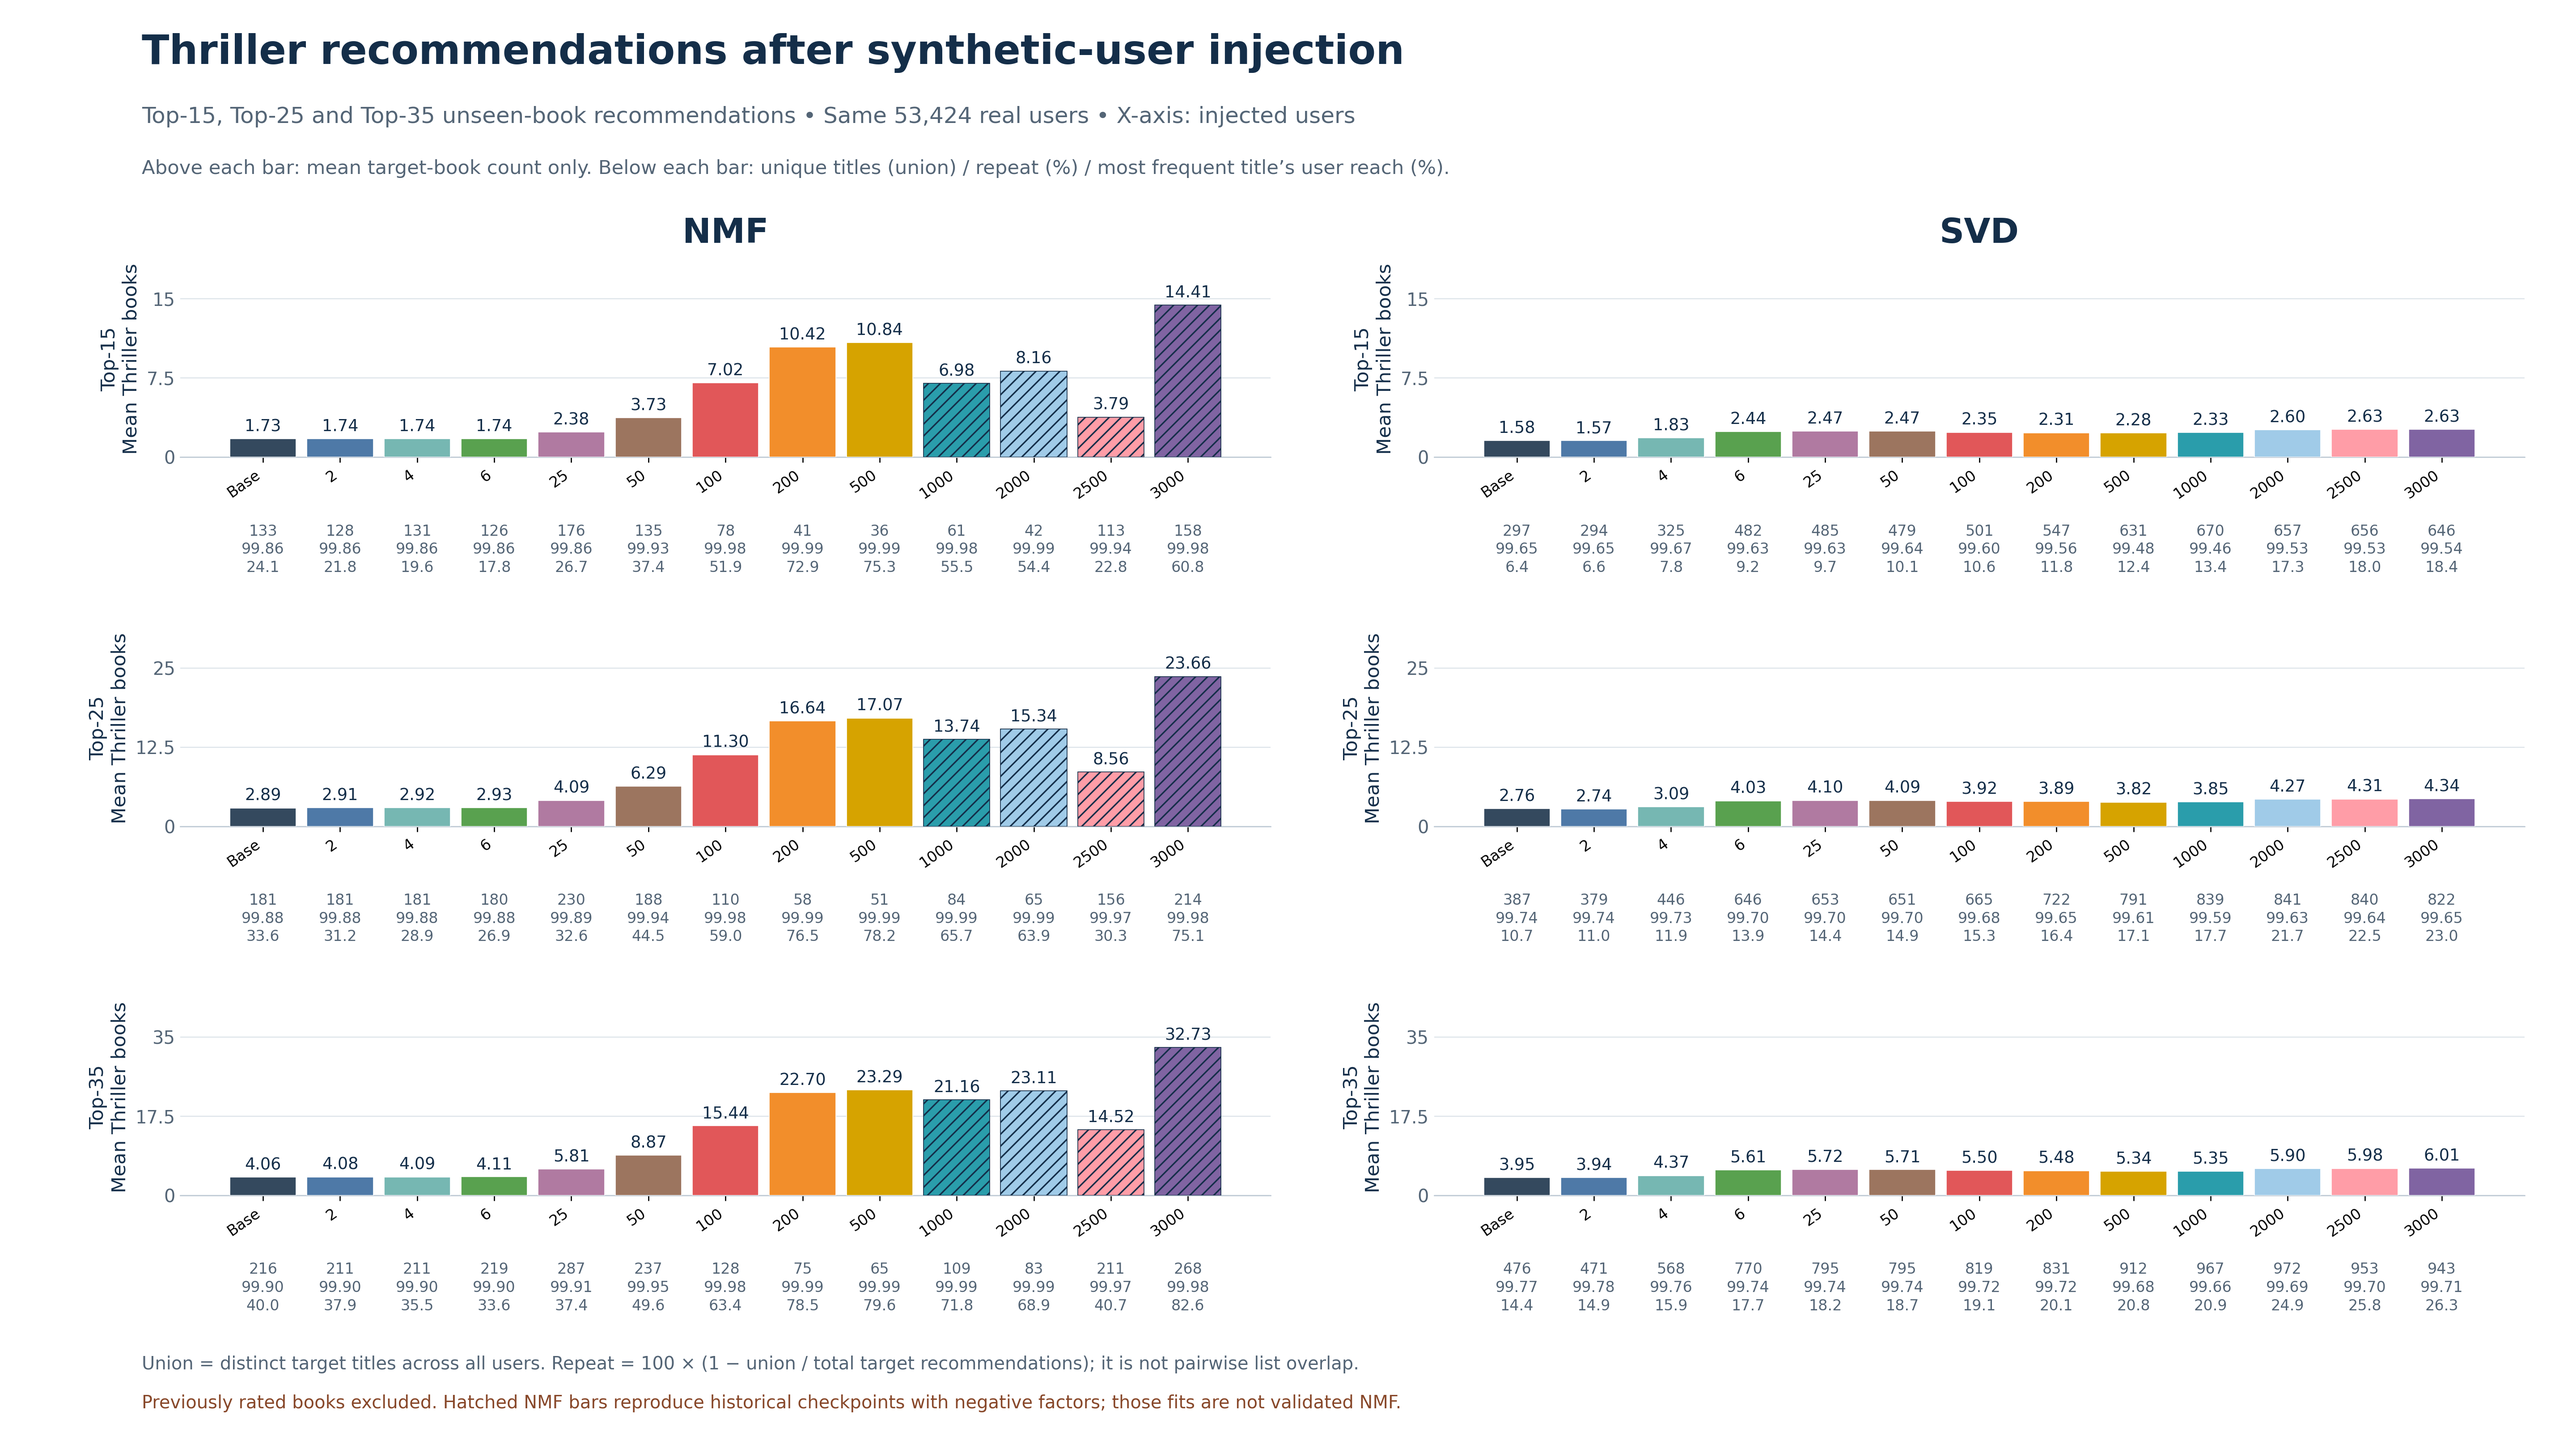
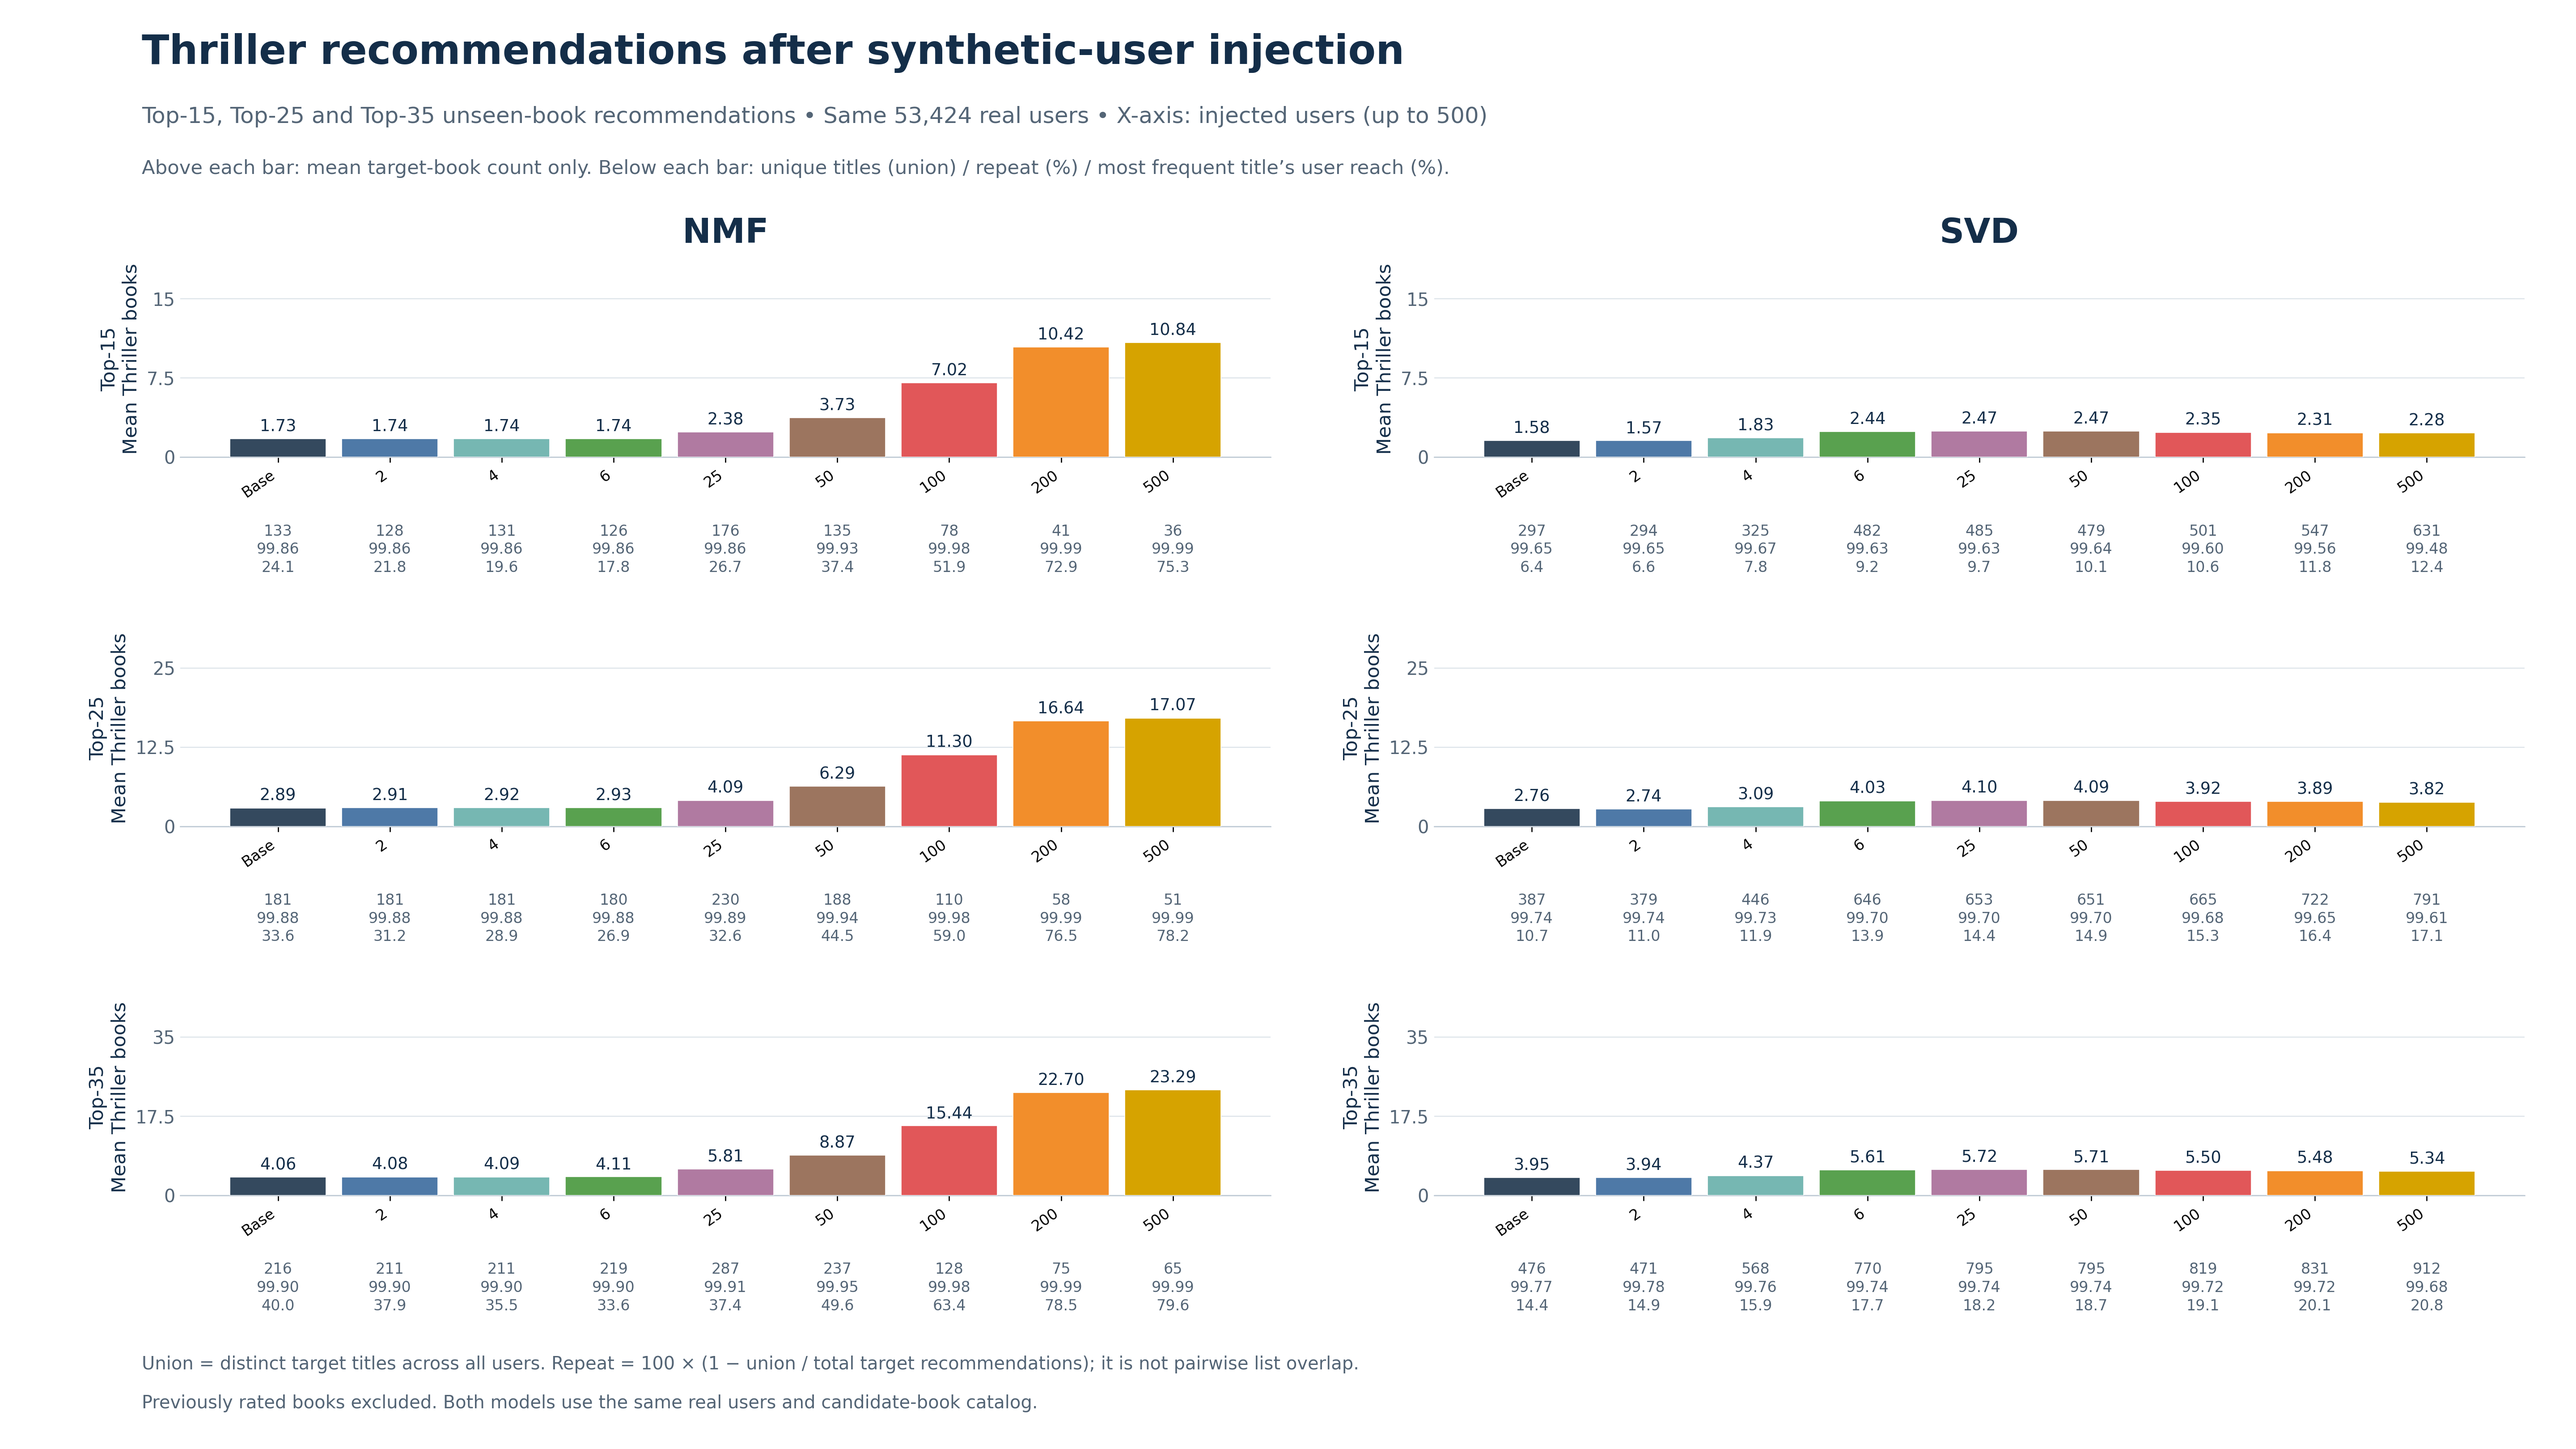
Limit both three-length genre comparisons to 500 injected users

diff --git a/Book/current/PerturbRec/svd_nmf/layer1/notebook/plot_topk_target_union.py b/Book/current/PerturbRec/svd_nmf/layer1/notebook/plot_topk_target_union.py
@@ -7,7 +7,8 @@ matplotlib.use('Agg')
 import matplotlib.pyplot as plt
 L=Path('/home/moshtasa/Research/phd-recsys/Book/current/PerturbRec/svd_nmf/layer1')
 d=pd.read_csv(L/'tables/topk_target_union/summary.csv');assert len(d)==156
-COUNTS=[0,2,4,6,25,50,100,200,500,1000,2000,2500,3000];KS=[15,25,35]
+d=d[d.n_fake<=500].copy();assert len(d)==108
+COUNTS=[0,2,4,6,25,50,100,200,500];KS=[15,25,35]
 navy='#142E49';muted='#546576';colors=['#34495E','#4E79A7','#76B7B2','#59A14F','#B07AA1','#9C755F','#E15759','#F28E2B','#D6A300','#2A9DAB','#A0CBE8','#FF9DA7','#8064A2']
 plt.rcParams.update({'font.family':'DejaVu Sans','font.size':12,'axes.spines.top':False,'axes.spines.right':False})
 for genre in ['Thriller','Drama']:
@@ -15,22 +16,22 @@ for genre in ['Thriller','Drama']:
  for ri,k in enumerate(KS):
   for ci,model in enumerate(['nmf','svd']):
    ax=axs[ri,ci];z=d[(d.model==model)&(d.genre==genre)&(d.k==k)].sort_values('n_fake');assert z.n_fake.tolist()==COUNTS
-   bars=ax.bar(np.arange(13),z.mean_target_count,width=.86,color=colors,edgecolor='white',linewidth=.5,zorder=3)
+   bars=ax.bar(np.arange(len(COUNTS)),z.mean_target_count,width=.86,color=colors[:len(COUNTS)],edgecolor='white',linewidth=.5,zorder=3)
    for j,(b,r) in enumerate(zip(bars,z.itertuples())):
     if not r.nmf_nonnegative_constraint_ok:b.set_hatch('///');b.set_edgecolor(navy)
     ax.text(j,r.mean_target_count+k*.025,f'{r.mean_target_count:.2f}',ha='center',va='bottom',fontsize=11,color=navy)
     ax.text(j,-.34,f'{r.union_distinct_target_titles}\n{r.union_repeat_percent:.2f}\n{r.most_frequent_book_user_reach_percent:.1f}',transform=ax.get_xaxis_transform(),ha='center',va='top',fontsize=10,color=muted,linespacing=1.3,clip_on=False)
-   ax.set_ylim(0,k*1.24);ax.set_yticks([0,k/2,k],[str(0),f'{k/2:g}',str(k)]);ax.set_xticks(range(13),['Base']+[str(n) for n in COUNTS[1:]],rotation=35,ha='right',fontsize=10)
+   ax.set_ylim(0,k*1.24);ax.set_yticks([0,k/2,k],[str(0),f'{k/2:g}',str(k)]);ax.set_xticks(range(len(COUNTS)),['Base']+[str(n) for n in COUNTS[1:]],rotation=35,ha='right',fontsize=10)
    ax.set_ylabel(f'Top-{k}\nMean {genre} books',fontsize=13,color=navy)
    if ri==0:ax.set_title(model.upper(),fontsize=23,fontweight='bold',color=navy,pad=12)
    ax.grid(axis='y',color='#DCE3E9',linewidth=.7,zorder=0);ax.spines['left'].set_visible(False);ax.spines['bottom'].set_color('#C0CBD5');ax.tick_params(axis='y',length=0,colors=muted)
  fig.subplots_adjust(left=.07,right=.98,top=.82,bottom=.175,wspace=.15,hspace=.88)
  fig.text(.055,.956,f'{genre} recommendations after synthetic-user injection',fontsize=27,fontweight='bold',color=navy)
- fig.text(.055,.915,'Top-15, Top-25 and Top-35 unseen-book recommendations • Same 53,424 real users • X-axis: injected users',fontsize=15,color=muted)
+ fig.text(.055,.915,'Top-15, Top-25 and Top-35 unseen-book recommendations • Same 53,424 real users • X-axis: injected users (up to 500)',fontsize=15,color=muted)
  fig.text(.055,.88,'Above each bar: mean target-book count only. Below each bar: unique titles (union) / repeat (%) / most frequent title’s user reach (%).',fontsize=13,color=muted)
  fig.text(.055,.055,'Union = distinct target titles across all users. Repeat = 100 × (1 − union / total target recommendations); it is not pairwise list overlap.',fontsize=12,color=muted)
- fig.text(.055,.028,'Previously rated books excluded. '+('Hatched NMF bars reproduce historical checkpoints with negative factors; those fits are not validated NMF.' if genre=='Thriller' else 'Both models use the same real users and candidate-book catalog.'),fontsize=12,color='#88482A' if genre=='Thriller' else muted)
+ fig.text(.055,.028,'Previously rated books excluded. Both models use the same real users and candidate-book catalog.',fontsize=12,color=muted)
  out=L/'result/final_results'/f'comparision - {genre}_top35_union_powerpoint.png';fig.savefig(out,dpi=240,facecolor='white');plt.close(fig);print(out)
 assert np.allclose(d.target_share_percent,d.mean_target_count/d.k*100)
 assert np.allclose(d.union_repeat_percent,100*(1-d.union_distinct_target_titles/d.total_target_recommendation_slots))
-(L/'log/topk_target_union_validation.json').write_text(json.dumps({'rows':len(d),'k_values':KS,'n_real_users':53424,'top35_exactly_matches_previous_results':True,'top15_matches_available_reference':True,'arithmetic_checked':True,'bar_labels':'mean target count only','negative_factor_checkpoints':d[~d.nmf_nonnegative_constraint_ok][['model','genre','n_fake']].drop_duplicates().to_dict('records')},indent=2))
+(L/'log/topk_target_union_validation.json').write_text(json.dumps({'rows':len(d),'max_injected_users':500,'displayed_injection_counts':COUNTS,'k_values':KS,'n_real_users':53424,'top35_exactly_matches_previous_results':True,'top15_matches_available_reference':True,'arithmetic_checked':True,'bar_labels':'mean target count only','negative_factor_checkpoints':d[~d.nmf_nonnegative_constraint_ok][['model','genre','n_fake']].drop_duplicates().to_dict('records')},indent=2))
